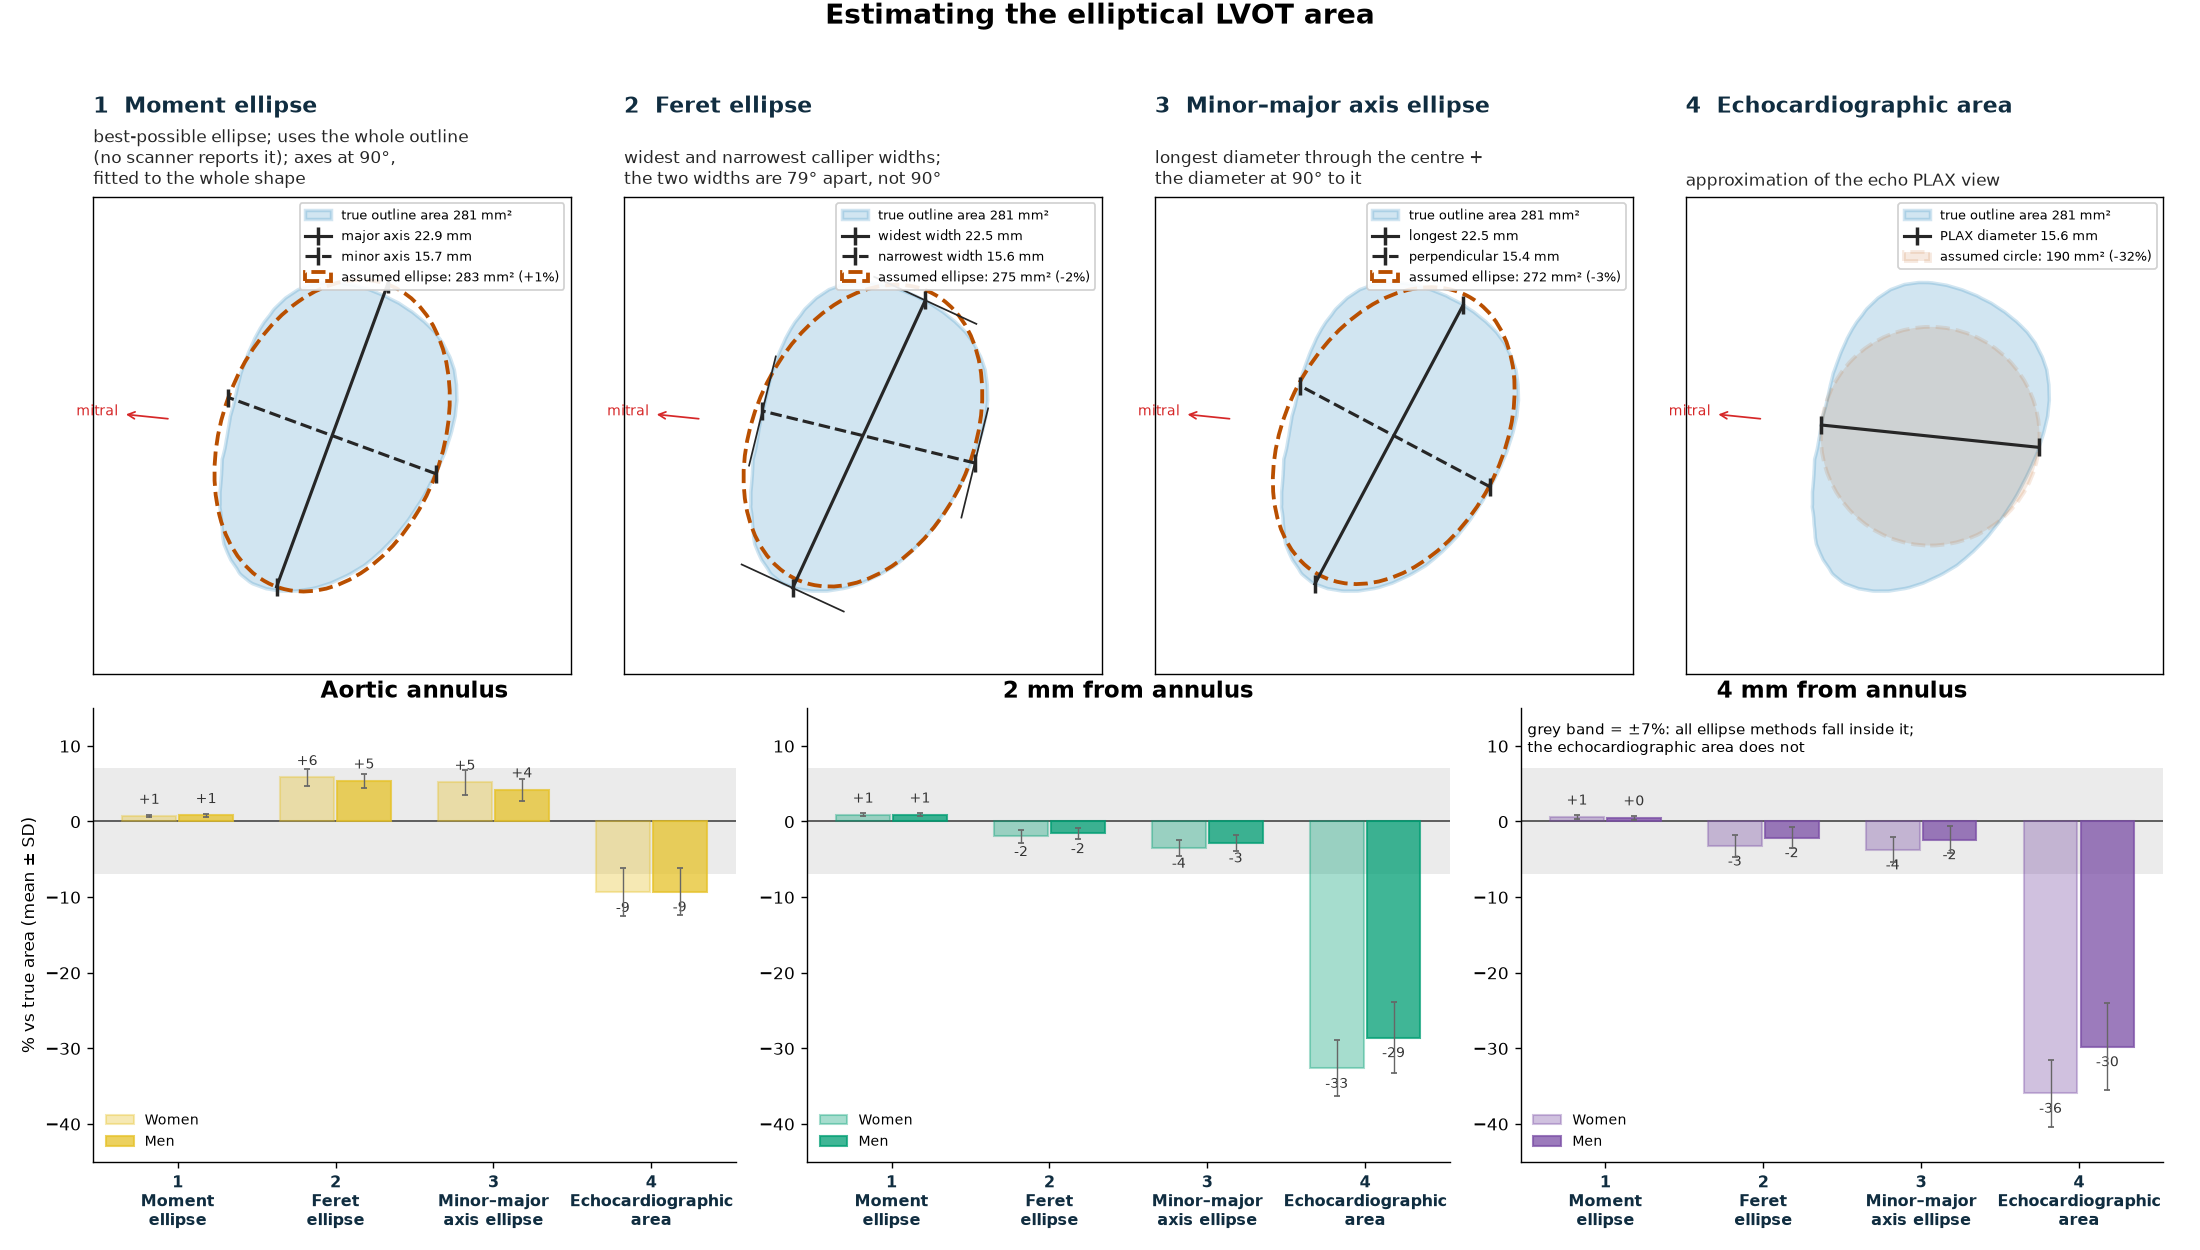
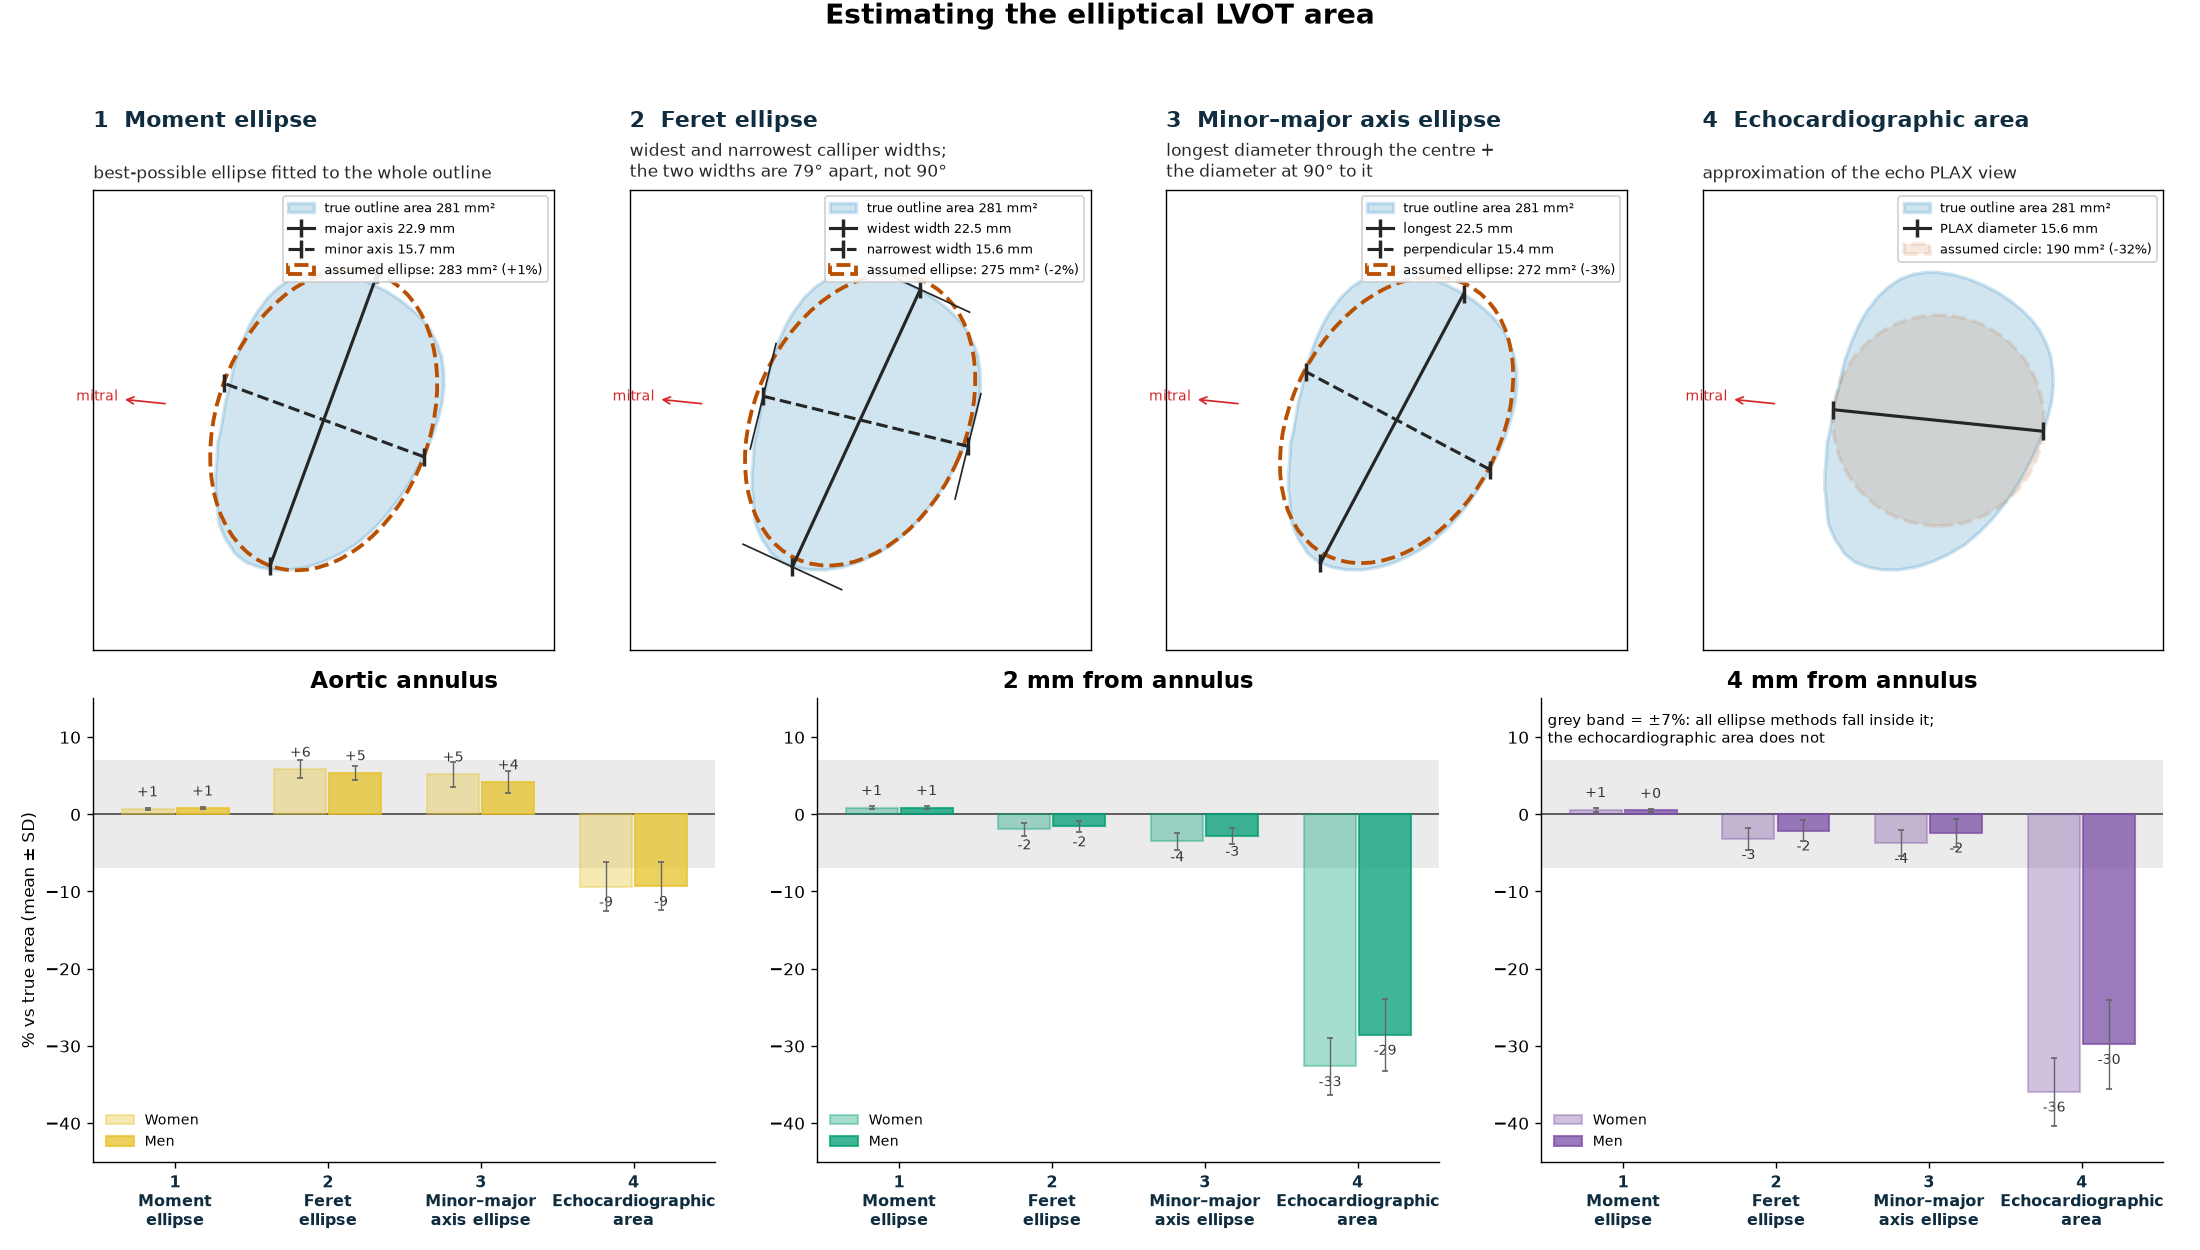
Area-methods figure: shorter moment-ellipse description

diff --git a/scripts/07_area_methods_demo.py b/scripts/07_area_methods_demo.py
@@ -80,7 +80,7 @@ def base(ax, name, desc):
     ax.text(*(c + u * 16.8), "mitral", color="tab:red", ha="center", va="center", fontsize=8)
     ax.set_aspect("equal"); ax.set_xlim(c[0] - 17, c[0] + 17); ax.set_ylim(c[1] - 17, c[1] + 17)
     ax.set_xticks([]); ax.set_yticks([])
-    nl = 3  # fixed slot so all method names sit at the same height
+    nl = 2  # fixed slot so all method names sit at the same height
     ax.annotate(desc, xy=(0, 1), xycoords="axes fraction", xytext=(0, 4), textcoords="offset points",
                 fontsize=10, va="bottom", ha="left", color="0.15")
     ax.annotate(name, xy=(0, 1), xycoords="axes fraction", xytext=(0, 8 + 12.5 * nl), textcoords="offset points",
@@ -103,7 +103,7 @@ num = iter(range(1, ncol + 1))
 
 # moment ellipse
 ax = fig.add_subplot(gs[0, next(panels)])
-base(ax, f"{next(num)}  Moment ellipse", "best-possible ellipse; uses the whole outline\n(no scanner reports it); axes at 90°,\nfitted to the whole shape")
+base(ax, f"{next(num)}  Moment ellipse", "best-possible ellipse fitted to the whole outline")
 th = el["theta"]; dM = np.array([np.cos(th), np.sin(th)]); dm = np.array([-dM[1], dM[0]])
 cal(ax, c - dM * el["dmax"] / 2, c + dM * el["dmax"] / 2, f"major axis {el['dmax']:.1f} mm")
 cal(ax, c - dm * el["dmin"] / 2, c + dm * el["dmin"] / 2, f"minor axis {el['dmin']:.1f} mm", "--")
